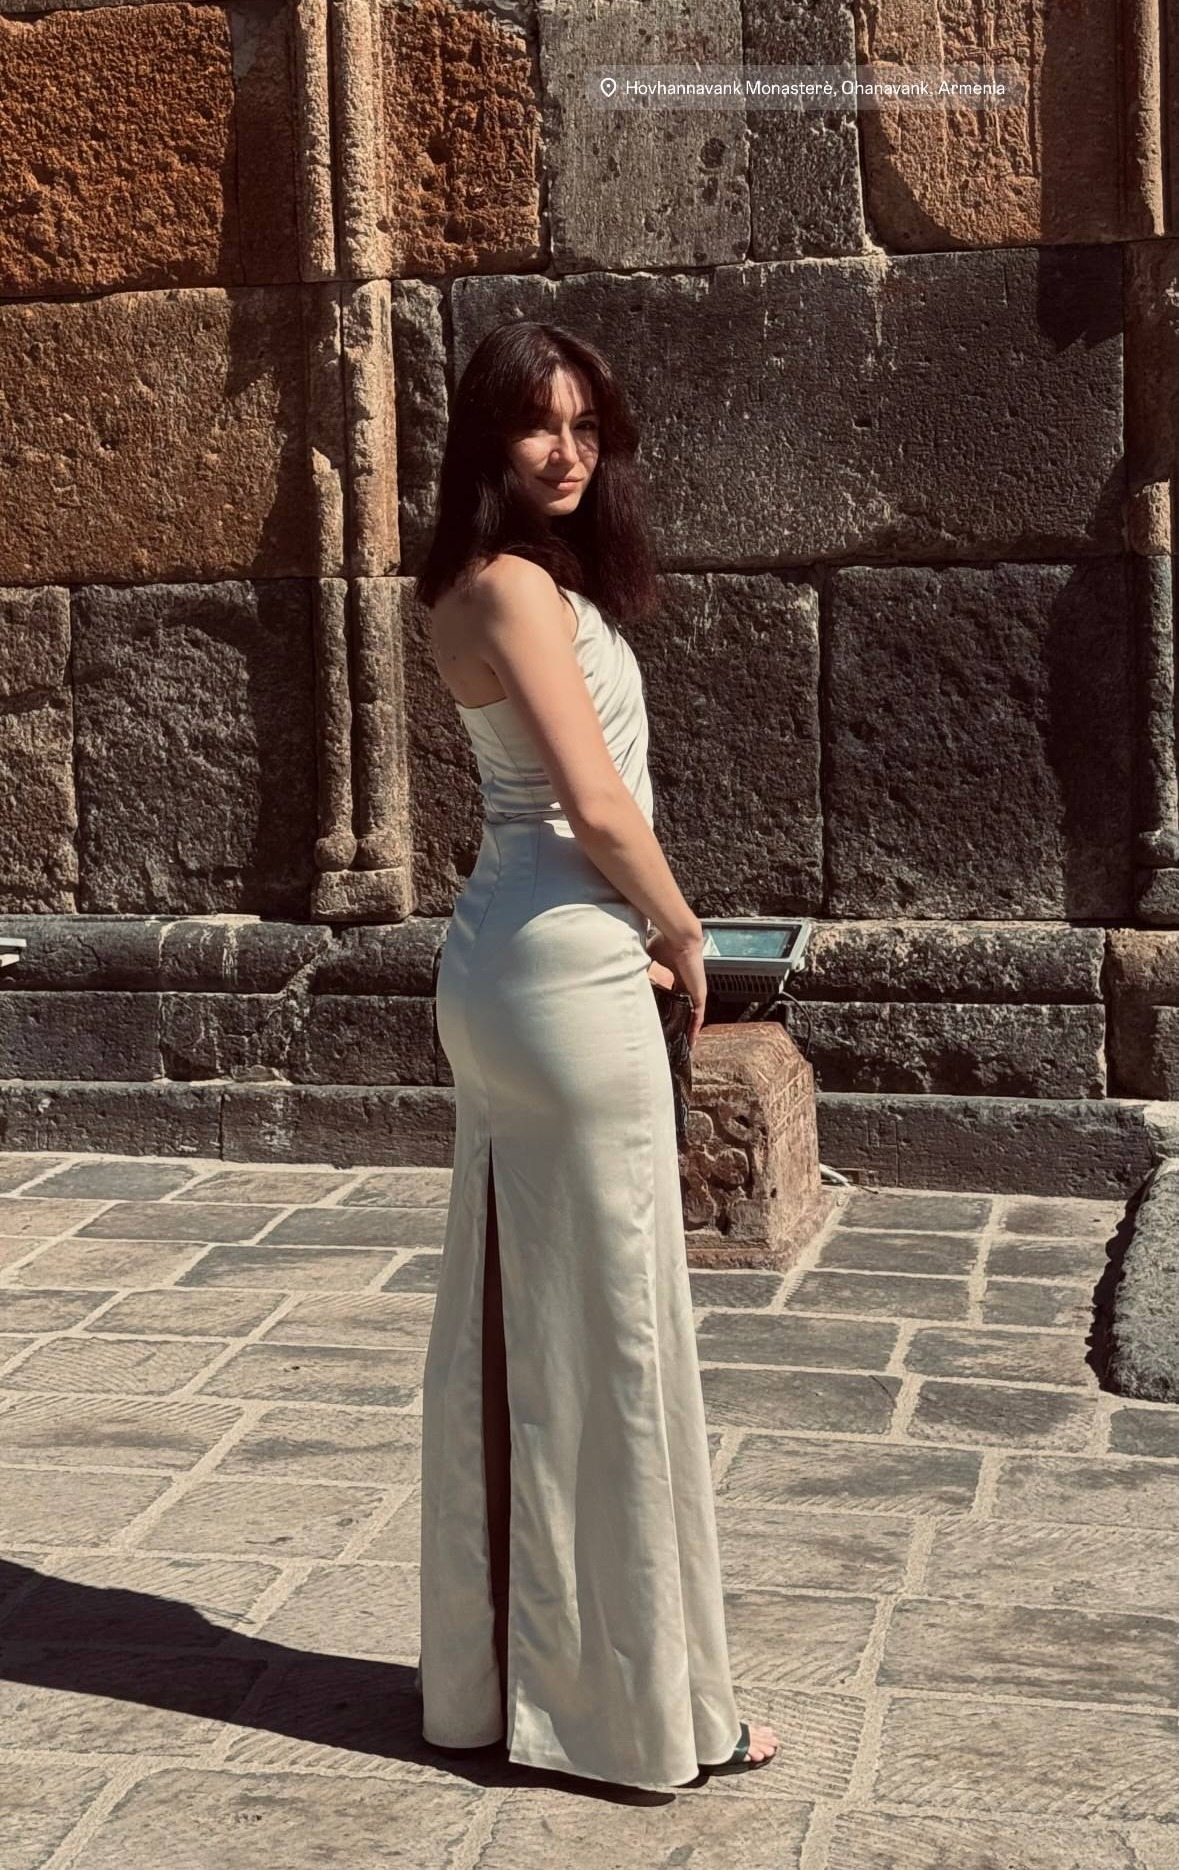
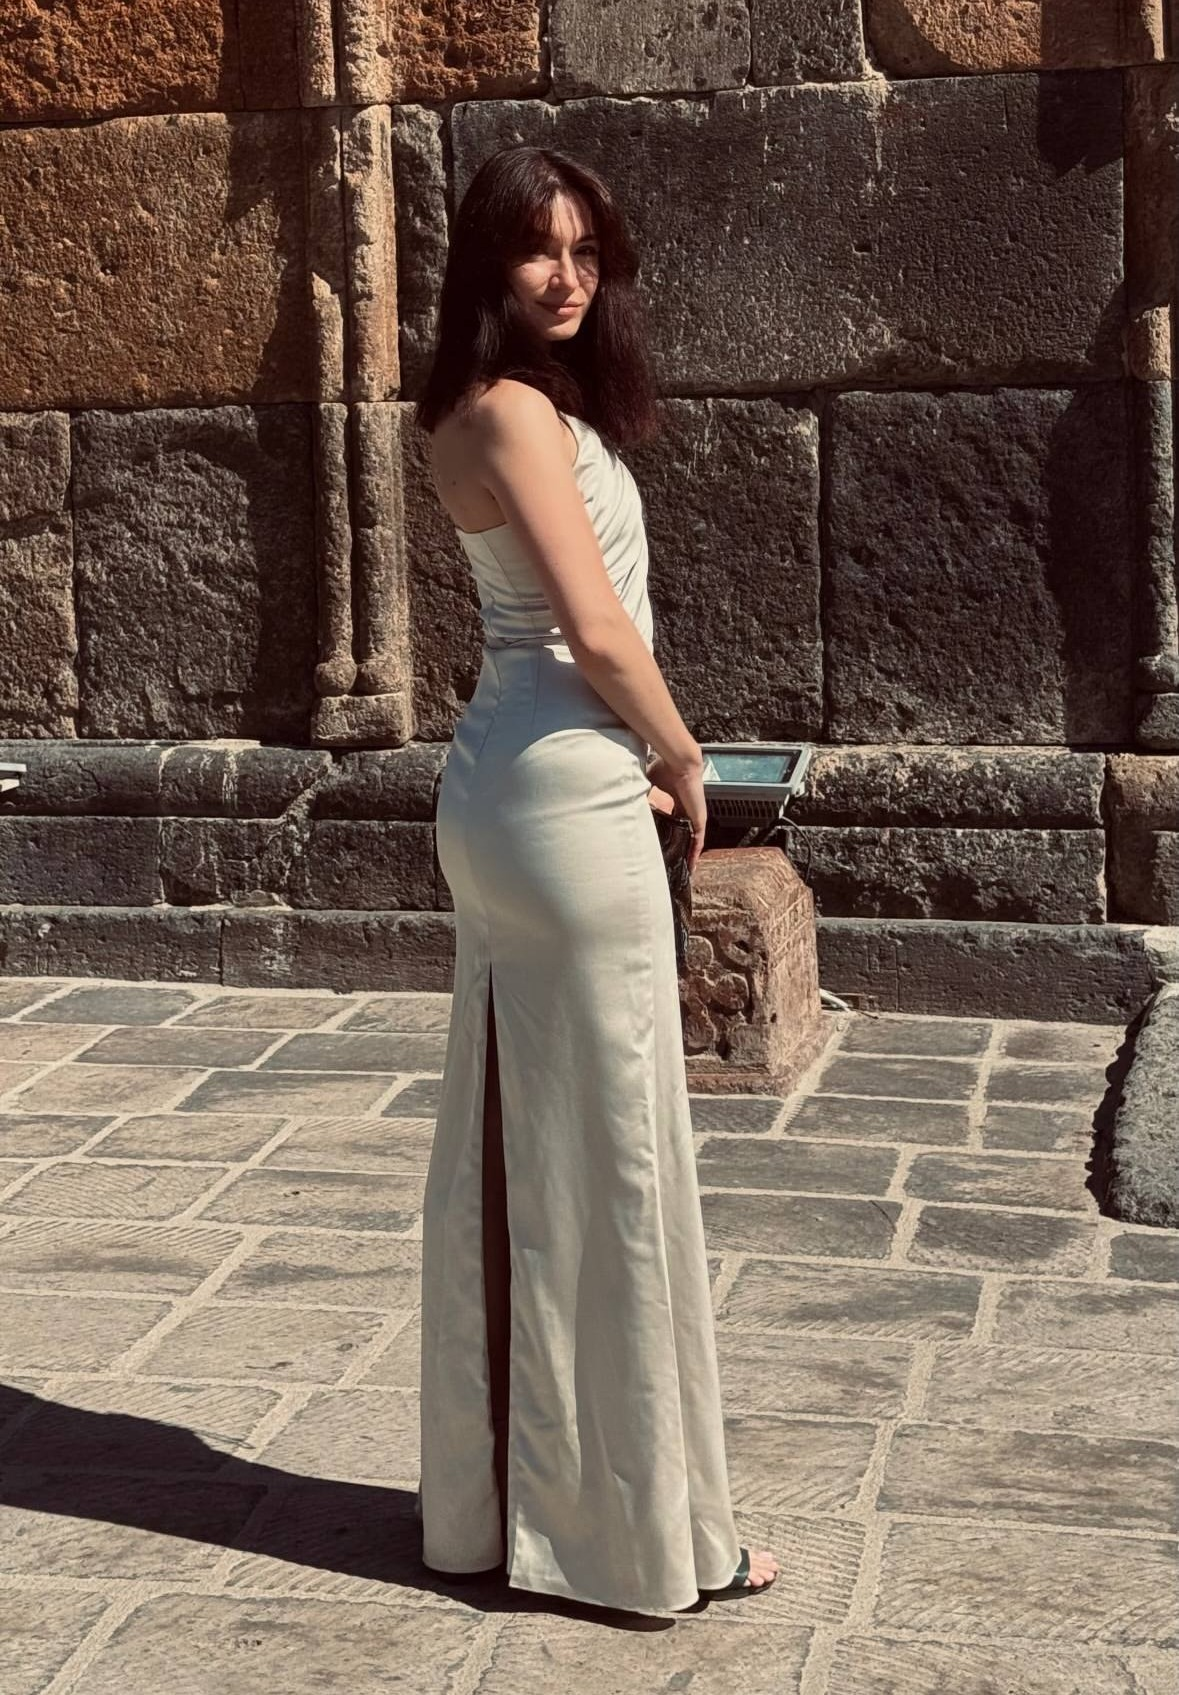
Fix photo placement and repeated microphone shots

diff --git a/src/screens/Screen01Mission.jsx b/src/screens/Screen01Mission.jsx
@@ -8,12 +8,12 @@ export default function Screen01Mission({ onNext }) {
       <span className="eyebrow">Sveta Beach Club</span>
       <div className="photo-strip">
         <PhotoCard
-          src={photos.singingSolo}
-          alt="Света поёт на сцене в красном платье"
-          caption="Vocal mode"
+          src={photos.prosecco}
+          alt="Света с бокалом"
+          caption="Prosecco mode"
           className="hero-photo"
           loading="eager"
-          style={{ '--tilt': '-3deg', '--pos': '54% 22%', minHeight: 244 }}
+          style={{ '--tilt': '-3deg', '--pos': 'center 34%', minHeight: 244 }}
         />
         <PhotoCard
           src={photos.lusya}

diff --git a/src/screens/Screen04Natal.jsx b/src/screens/Screen04Natal.jsx
@@ -1,6 +1,4 @@
 import Button from '../components/Button'
-import PhotoCard from '../components/PhotoCard'
-import { photos } from '../photos'
 const NATAL_ITEMS = [
   { mark: 'CO', text: 'Кофе — в доме жизненной силы.' },
   { mark: 'VO', text: 'Вокал — в доме «а давайте споём».' },
@@ -17,10 +15,6 @@ export default function Screen04Natal({ onNext }) {
     <div className="screen">
       <span className="eyebrow">Astro report</span>
       <h1 className="screen-title">Натальная карта Светы</h1>
-      <div className="photo-strip">
-        <PhotoCard src={photos.singingStage} alt="Света поёт на сцене" caption="voice" className="side-photo" style={{ '--tilt': '-4deg', '--pos': '73% 28%' }} />
-        <PhotoCard src={photos.phil} alt="Света и кот Фил" caption="phil" className="side-photo" style={{ '--tilt': '5deg', '--pos': '55% center' }} />
-      </div>
       <div className="screen-body">
         <p>Мы построили твою натальную карту на ближайшие дни.</p>
         <p style={{ marginTop: 'var(--space-sm)' }}>Результат необычный:</p>

diff --git a/src/screens/Screen10Invite.jsx b/src/screens/Screen10Invite.jsx
@@ -9,11 +9,11 @@ export default function Screen10Invite({ onNext }) {
     <div className="screen">
       <span className="eyebrow">Official invite</span>
       <PhotoCard
-        src={photos.singingStage}
-        alt="Света поёт на сцене в красном платье"
+        src={photos.singingSolo}
+        alt="Света одна поёт на сцене в красном платье"
         caption="11 July"
         className="hero-photo"
-        style={{ '--tilt': '-2deg', '--pos': '73% 30%', minHeight: 380 }}
+        style={{ '--tilt': '-2deg', '--pos': 'center 26%', minHeight: 380 }}
       />
       <h1 className="screen-title">Света!</h1>
       <div className="screen-body paper-panel tight">

diff --git a/src/styles/global.css b/src/styles/global.css
@@ -181,6 +181,11 @@ body {
   filter: saturate(0.94) contrast(1.03);
 }
 
+.photo-card.contain img {
+  object-fit: contain;
+  background: linear-gradient(135deg, oklch(20% 0.045 150), oklch(94% 0.025 96));
+}
+
 .photo-card figcaption {
   position: absolute;
   left: 12px;

diff --git a/src/screens/Screen02Identity.jsx b/src/screens/Screen02Identity.jsx
@@ -37,8 +37,8 @@ export default function Screen02Identity({ gameState, onToggleChecked, onNext })
         src={photos.fullBodyWhite}
         alt="Света в белом платье у каменной стены"
         caption="main character"
-        className="hero-photo"
-        style={{ '--tilt': '2deg', '--pos': '52% 40%', minHeight: 360 }}
+        className="hero-photo contain"
+        style={{ '--tilt': '2deg', '--pos': 'center top', minHeight: 430, aspectRatio: '0.62' }}
       />
       <div className="screen-body">
         <p>Для допуска к девичнику нужно подтвердить, что перед нами настоящая Света.</p>

diff --git a/src/screens/Screen11Certificate.jsx b/src/screens/Screen11Certificate.jsx
@@ -1,6 +1,4 @@
 import Button from '../components/Button'
-import PhotoCard from '../components/PhotoCard'
-import { photos } from '../photos'
 export default function Screen11Certificate() {
   const handleClose = () => {
     const tg = window.Telegram?.WebApp
@@ -9,7 +7,6 @@ export default function Screen11Certificate() {
   return (
     <div className="screen">
       <span className="eyebrow">Access granted</span>
-      <PhotoCard src={photos.disco} alt="Света с диско-ободком" caption="certified" className="side-photo" style={{ '--tilt': '3deg', '--pos': 'center 30%', minHeight: 260 }} />
       <div className="paper-panel" style={{ border: '2px solid var(--color-gold)', textAlign: 'center', animation: 'fadeUp 400ms ease-out 200ms both' }}>
         <p style={{ fontFamily: 'var(--font-display)', fontSize: '0.65rem', fontWeight: 700, color: 'var(--color-gold)', letterSpacing: '0.15em', textTransform: 'uppercase', marginBottom: 'var(--space-lg)' }}>Сертификат допуска</p>
         <p style={{ fontSize: '0.875rem', color: 'var(--color-muted)', marginBottom: 'var(--space-sm)' }}>Настоящим подтверждается, что</p>

diff --git a/src/screens/Screen08Pack.jsx b/src/screens/Screen08Pack.jsx
@@ -17,7 +17,7 @@ export default function Screen08Pack({ onNext }) {
     <div className="screen">
       <span className="eyebrow">Packing list</span>
       <h1 className="screen-title">Что взять с собой</h1>
-      <PhotoCard src={photos.officeBlue} alt="Света в синем образе" caption="chaos kit" className="side-photo" style={{ '--tilt': '3deg', '--pos': 'center 45%', minHeight: 290 }} />
+      <PhotoCard src={photos.officeBlue} alt="Света в синем образе" caption="chaos kit" className="hero-photo contain" style={{ '--tilt': '3deg', '--pos': 'center top', minHeight: 430, aspectRatio: '0.56' }} />
       <div className="screen-body"><p>Перед девичником система рекомендует взять:</p></div>
       <div className="paper-panel line-list" style={{ animation: 'fadeUp 280ms ease-out 320ms both' }}>
         {PACK_ITEMS.map((item, i) => (